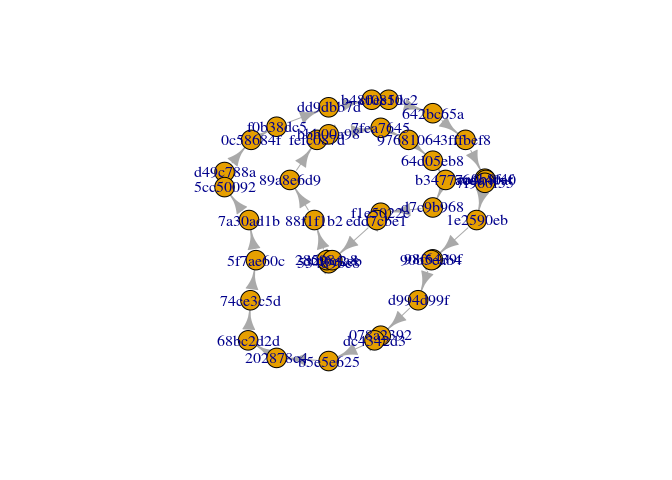
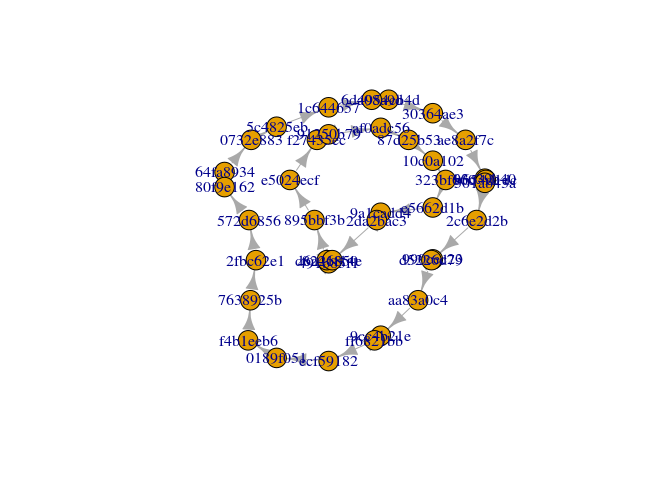
ggraph

diff --git a/README.md b/README.md
@@ -56,7 +56,27 @@ library(ggraph)
 #> The following object is masked from 'package:sp':
 #> 
 #>     geometry
+g <- sc_as_igraph(line)
+ggraph(g) + geom_edge_arc()
+#> Using `nicely` as default layout
 ```
+
+![](README-unnamed-chunk-2-1.png)
+
+``` r
+
+ggraph(g) + geom_edge_link() 
+#> Using `nicely` as default layout
+```
+
+![](README-unnamed-chunk-2-2.png)
+
+``` r
+
+plot(line)
+```
+
+![](README-unnamed-chunk-2-3.png)
 
 Notes
 -----
